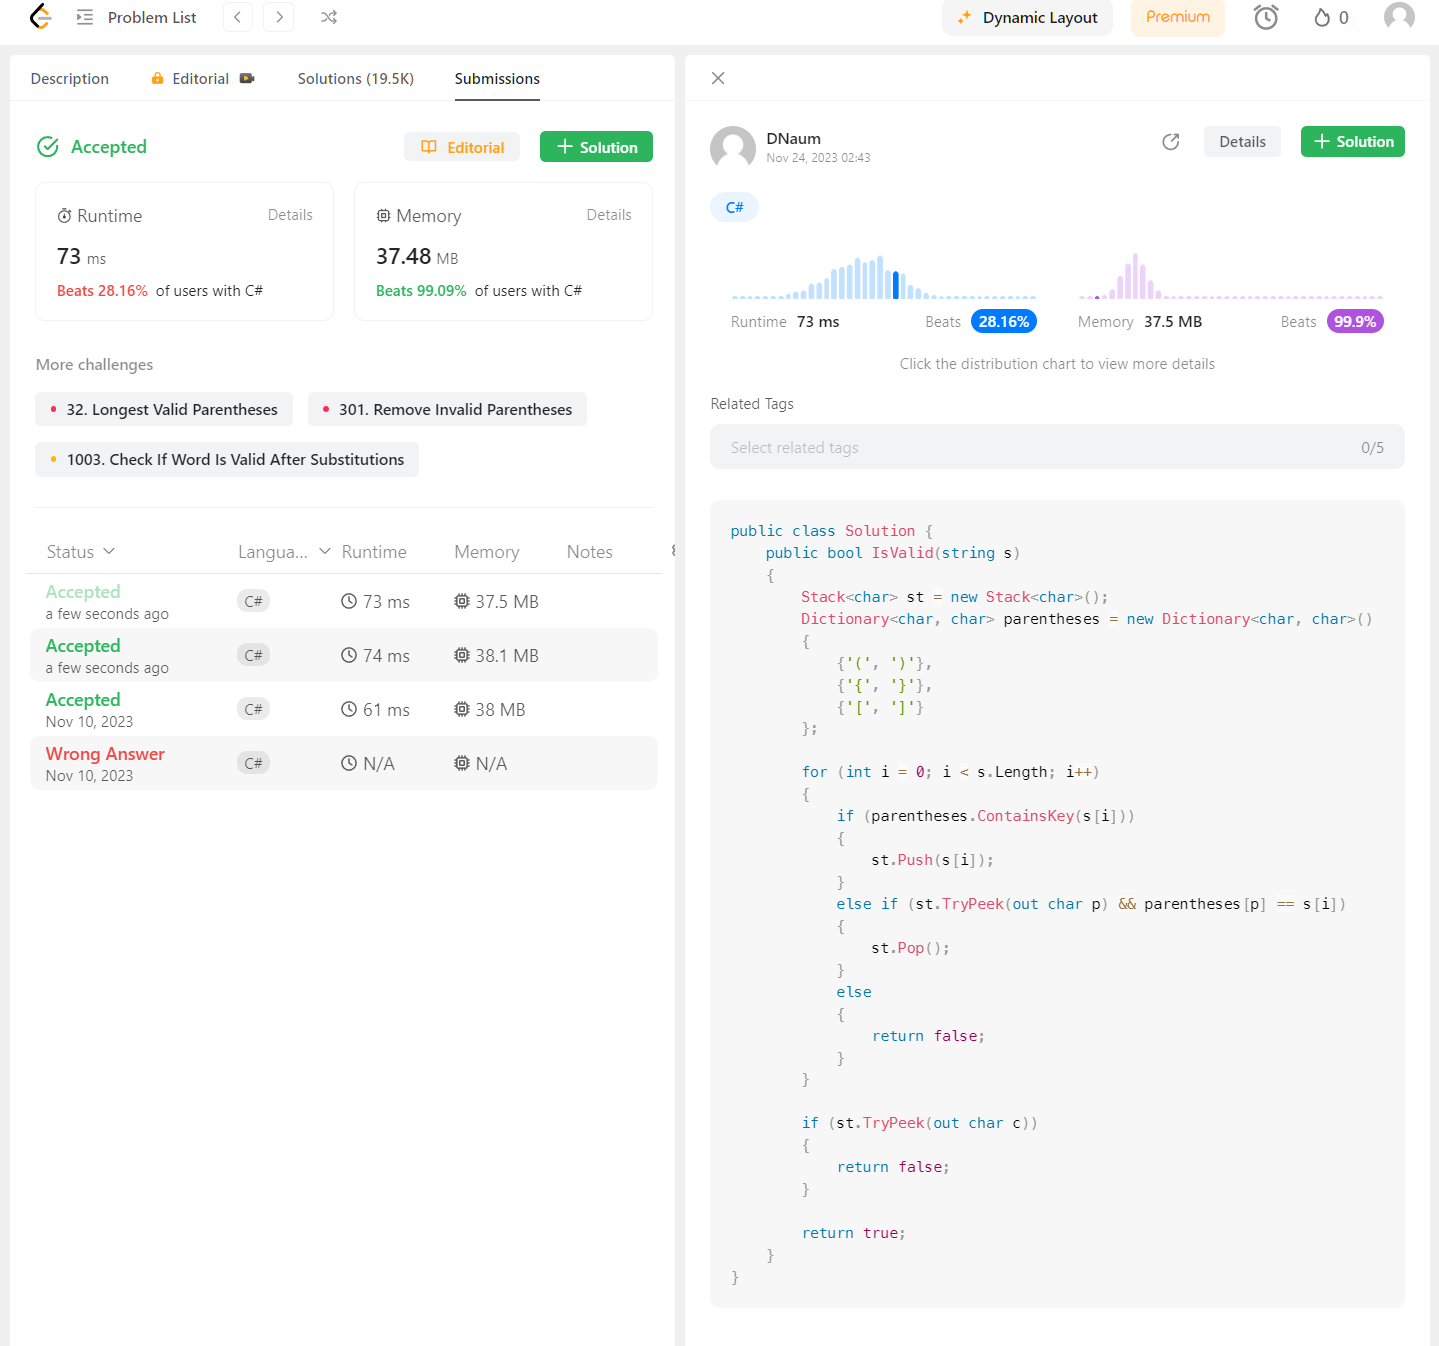
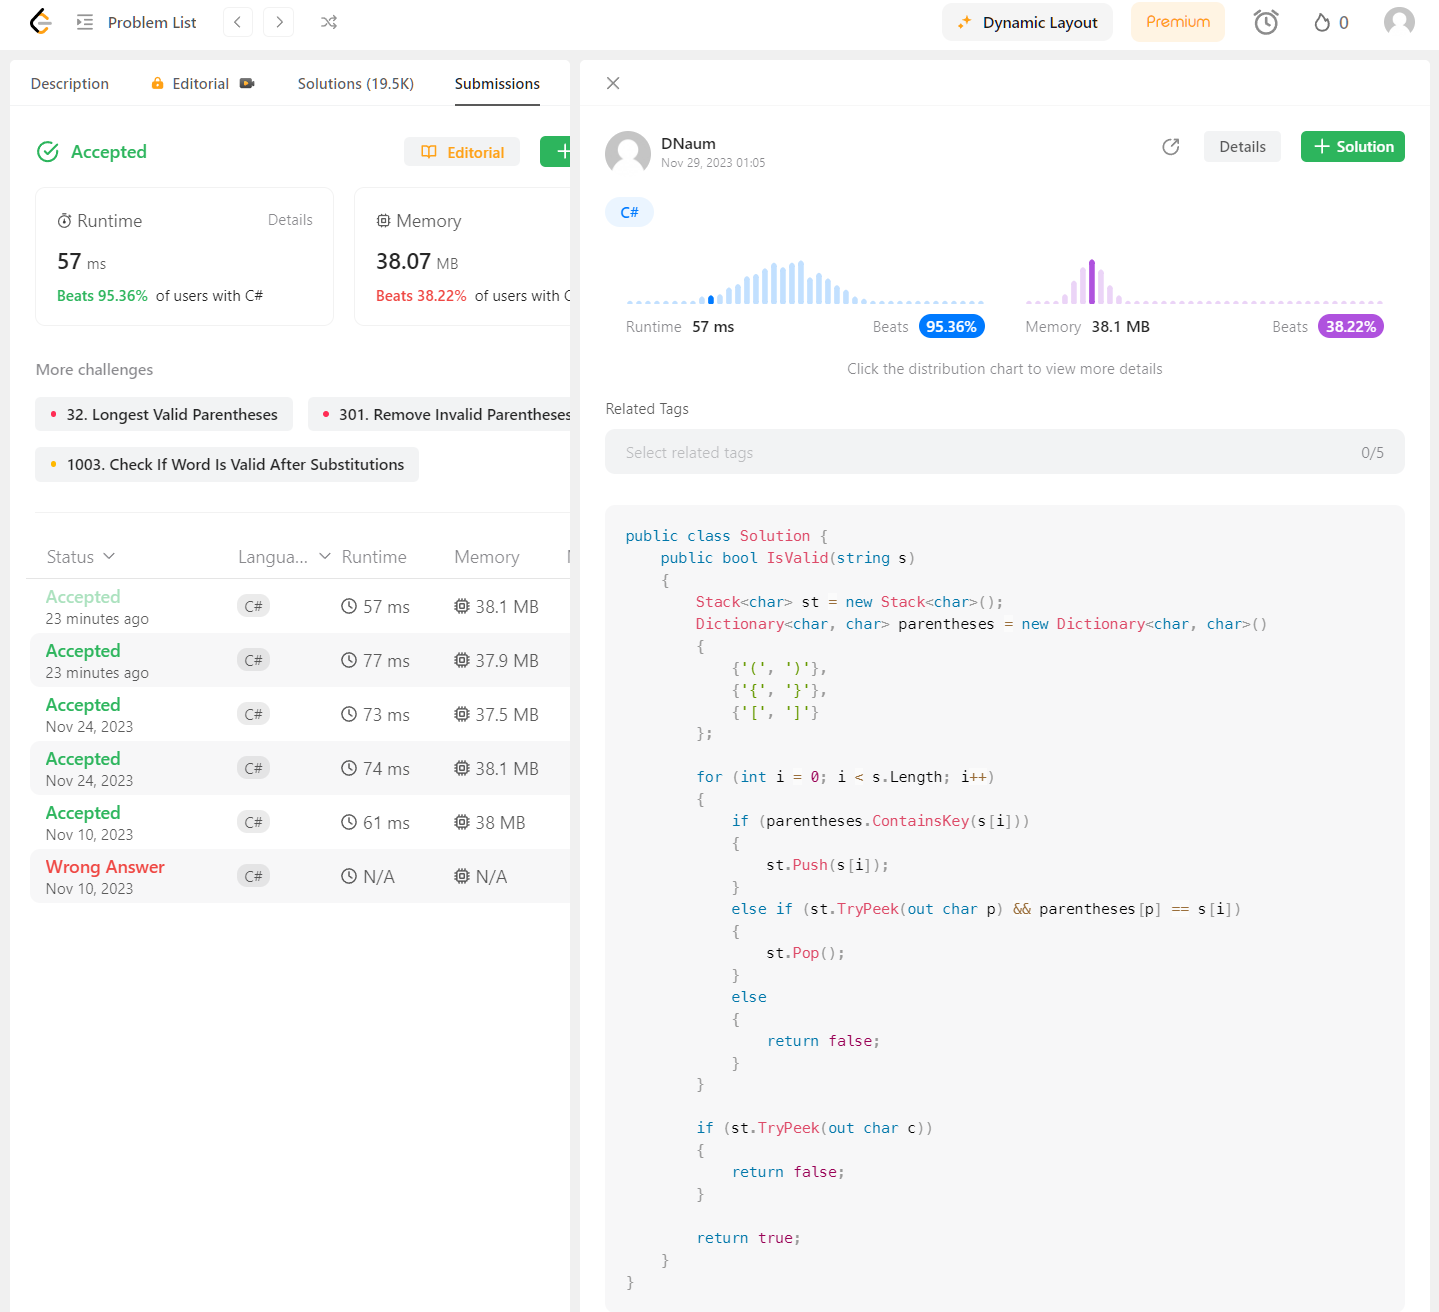
Removed last else block by adding continue keyword to if blocks, and changed TryPeek() methods to Any().

diff --git a/ScnSoft-Education/LeetCodeTraining/ValidParentheses/ValidParenthesesSolution.cs b/ScnSoft-Education/LeetCodeTraining/ValidParentheses/ValidParenthesesSolution.cs
@@ -18,18 +18,18 @@
                 if (parentheses.ContainsKey(s[i]))
                 {
                     st.Push(s[i]);
+                    continue;
                 }
-                else if (st.TryPeek(out char p) && parentheses[p] == s[i])
+
+                if (st.Any() && parentheses[st.Pop()] == s[i])
                 {
-                    st.Pop();
+                    continue;
                 }
-                else
-                {
-                    return false;
-                }
+                
+                return false;
             }
 
-            if (st.TryPeek(out char c))
+            if (st.Any())
             {
                 return false;
             }
